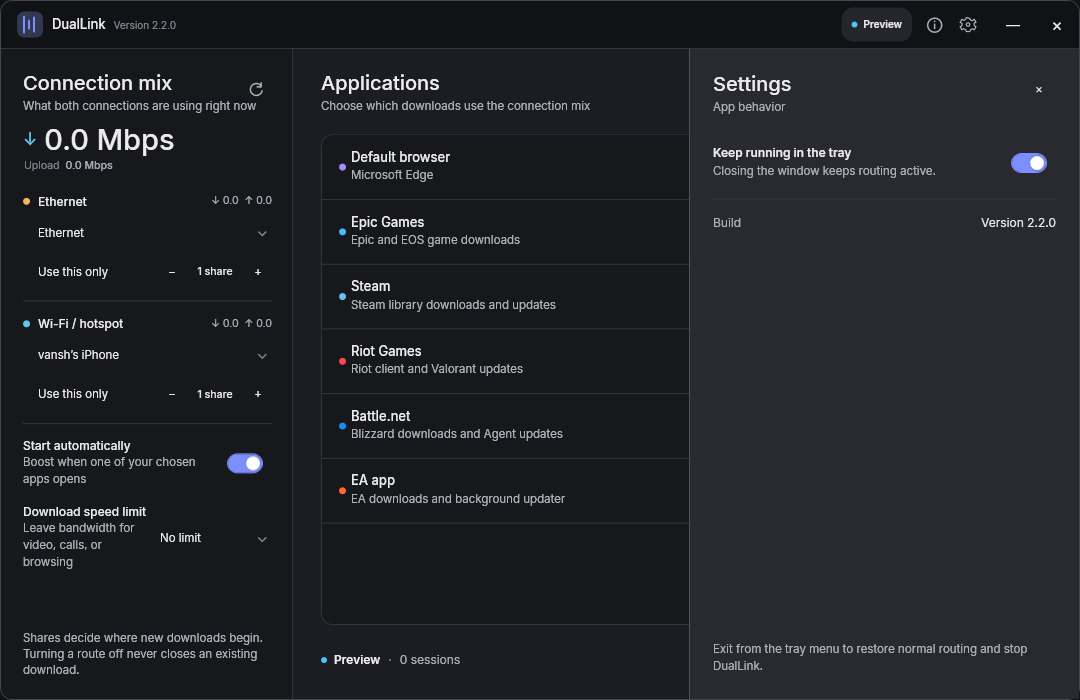
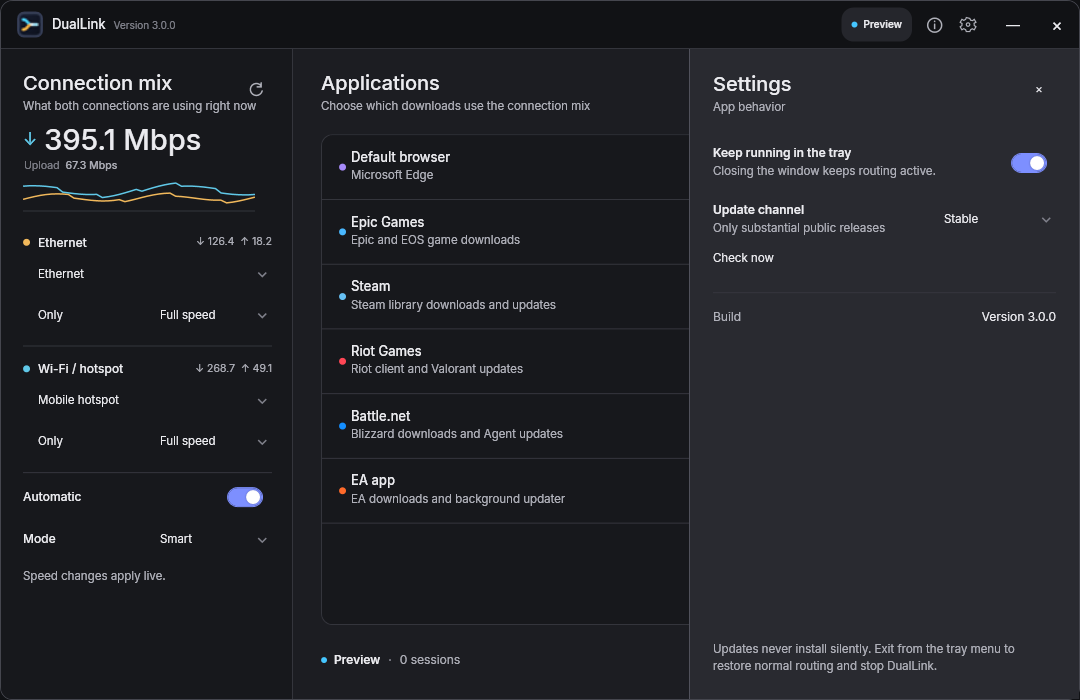
chore: prepare DualLink 3.0 stable release

diff --git a/src/DualLink/MainWindow.xaml.cs b/src/DualLink/MainWindow.xaml.cs
@@ -716,7 +716,13 @@ public partial class MainWindow : Window, INotifyPropertyChanged
             changed.RouteControlMbps = LinkInfo.FullSpeedControlMbps;
             Log("Keep at least one connection on");
         }
-        ApplyRouteMix();
+        var balanced = RoutingModeOptions.First(x => x.Mode == RoutingMode.Balanced);
+        if (SelectedRoutingModeOption?.Mode != RoutingMode.Balanced)
+        {
+            SelectedRoutingModeOption = balanced;
+            Log("Balanced mode selected for manual route speeds");
+        }
+        else ApplyRouteMix();
     }
     private async void ProfileSelection_Click(object sender, RoutedEventArgs e)
     {

diff --git a/README.md b/README.md
@@ -5,7 +5,7 @@
 
 DualLink applies two independent internet links to new TCP connections made by selected Windows applications. It is designed for launchers and browsers that open several parallel download connections.
 
-![DualLink 2.3 application overview](docs/screenshots/duallink-2.3-dev.png)
+![DualLink 3.0 application overview](docs/screenshots/duallink-3.0.png)
 
 <p align="center">
   <img src="docs/images/icon-preview.png" width="128" alt="DualLink confluence app icon: two network paths merging into one" />
@@ -24,7 +24,7 @@ DualLink leaves normal Windows routing alone for every application you have not 
 1. Connect Ethernet and Wi-Fi/hotspot.
 2. Pick each connection. Wi-Fi choices show the connected network or hotspot name.
 3. Choose the applications and select **Enable boost**.
-4. Choose an independent Mbps limit for each route, or select **Full speed**. Changes throttle that route's existing download and upload traffic immediately; Off leaves its current connections draining but sends no new ones there. Select **Only** to move all new connections to that route.
+4. Choose an independent Mbps limit for each route, or select **Full speed**. A manual choice switches the mode to **Balanced** so the selected capacities guide new connections. Changes throttle that route's existing download and upload traffic immediately; Off leaves its current connections draining but sends no new ones there. Select **Only** to move all new connections to that route.
 5. Close the window to keep DualLink in the notification area. Hover for live combined speed, connection quality, and session context, or right-click for the compact DualLink status menu. Use **Exit and restore** to return the filter to its previous configuration.
 
 The Details drawer explains filter readiness, route quality, and whether active sessions have actually used both connections. **This boost** shows the real download, upload, and successful-connection contribution from Ethernet and Wi-Fi; these local counters reset whenever a new boost begins. **Check connections** verifies each selected route, DNS, route independence, and application filtering in plain language. Technical activity remains hidden until requested. The default browser is detected from Windows settings and added automatically. **Add application** offers visible running apps first, with executable browsing as a fallback. Custom applications are matched by their full executable path so another program with the same filename is not selected accidentally; adding the same executable again selects its existing row, and custom rows can be removed directly. Changing the chosen applications during a boost reloads only the local filter, so established proxied downloads are not closed.
@@ -35,6 +35,10 @@ While boosting, route speeds, the one-minute sparkline, and tray speed use byte 
 <summary>Settings and diagnostics stay out of the way until requested</summary>
 
 ![DualLink settings inspector](docs/images/settings.png)
+
+![DualLink connection details](docs/screenshots/duallink-3.0-details.png)
+
+![DualLink running application picker](docs/screenshots/duallink-3.0-add-application.png)
 
 </details>
 
@@ -52,13 +56,13 @@ Run `build.ps1`. The script restores from NuGet.org, runs the integration test, 
 
 Development checkpoints use annotated `-dev.N` tags without GitHub Releases. Public Releases are reserved for substantial stable milestones that pass the complete [version and release policy](docs/RELEASE-POLICY.md).
 
-Development of the next substantial milestone is tracked in the [DualLink 3.0 roadmap](docs/ROADMAP_3.0.md).
+The completed milestone and its intentional scope are recorded in the [DualLink 3.0 roadmap](docs/ROADMAP_3.0.md).
 
 End users do not need .NET, ProxiFyre, Windows Packet Filter, or the Visual C++ runtime installed beforehand; the offline setup contains them.
 
 ## Safety model
 
-DualLink only filters processes the user selects. Its local proxy listens on loopback, uses fresh random credentials for each run, and is not exposed to the LAN. Disarming or exiting restores the previous ProxiFyre configuration. A small independent watchdog also restores the configuration if the UI process exits unexpectedly. Recovery paths are constrained to DualLink's own state and the expected ProxiFyre config. Adapter changes are detected automatically; an available route continues carrying new sessions while another reconnects. A weight of zero affects new connections only.
+DualLink only filters processes the user selects. Its local proxy listens on loopback, uses fresh random credentials for each run, and is not exposed to the LAN. Disarming or exiting restores the previous ProxiFyre configuration. A small independent watchdog also restores the configuration if the UI process exits unexpectedly. Recovery paths are constrained to DualLink's own state and the expected ProxiFyre config. Adapter changes are detected automatically; an available route continues carrying new sessions while another reconnects. Turning a route off affects new connections immediately while established ones finish normally.
 
 ## Limits
 

diff --git a/docs/ROADMAP_3.0.md b/docs/ROADMAP_3.0.md
@@ -10,16 +10,16 @@ DualLink 3.0 focuses on making combined-routing behavior understandable and depe
 4. **Lower idle cost** — keep background polling, allocations, helper processes, and retained transfer state bounded while preserving automatic behavior.
 5. **Approachable controls** — keep primary actions understandable without exposing IP addresses or technical logs unless requested.
 
-The development checkpoints established app-scoped route accounting, an on-demand running-application picker, an understandable per-boost contribution summary, live application-target updates, accurate draining-route evidence under concurrent load, and immediate per-route speed control. Stable preparation now concentrates on the release audit and repeated recovery verification.
+The completed milestone includes app-scoped route accounting, an on-demand running-application picker, an understandable per-boost contribution summary, live application-target updates, accurate draining-route evidence under concurrent load, and immediate independent per-route speed control.
 
 ## Intentional exclusions
 
 - No per-application routing-setting profiles. Applications remain simple selectable targets.
-- No separate upload limiter. One aggregate bandwidth limit covers upload and download together.
+- No separate upload limiter and no combined limiter. Each route has one speed control covering its upload and download traffic together.
 - No settings import or export.
 - No automatic update download or installation.
 - No GitHub Release for development tags.
 
-## Stable 3.0 gate
+## Stable 3.0 result
 
-The normal repository release policy remains authoritative. In addition, 3.0 must prove that app-scoped traffic accounting is correct across both routes, counters remain bounded across repeated sessions, displayed evidence matches actual proxy activity, live target changes preserve established transfers, and recovery does not misreport unrelated destination failures as link failures.
+The stable milestone proves that app-scoped traffic accounting is correct across both routes, counters remain bounded across repeated sessions, displayed evidence matches actual proxy activity, live target changes preserve established transfers, higher route limits receive more new connections, active limits change without interruption, and unrelated destination failures are not misreported as link failures.

diff --git a/docs/RELEASE_NOTES_3.0.0.md b/docs/RELEASE_NOTES_3.0.0.md
@@ -1,0 +1,24 @@
+# DualLink 3.0.0
+
+DualLink 3 makes two-link routing easier to control and easier to trust. It shows traffic carried by selected applications, records what each connection contributed during the current boost, and gives Ethernet and Wi-Fi their own live speed choices.
+
+## Highlights
+
+- Set Ethernet and Wi-Fi independently from **Off** through exact Mbps choices to **Full speed**.
+- Choosing a manual route speed switches to Balanced mode automatically so the selected capacities guide new connections immediately.
+- Change either route while a download is active; the new limit takes effect without restarting DualLink, the launcher, the proxy, or the filter.
+- Give Wi-Fi more capacity than Ethernet, or the reverse. Balanced mode assigns more new connections to the route with the higher selected speed.
+- Turn a route off without breaking its existing transfers. They drain normally and remain visible in the current-boost evidence.
+- See selected-app download, upload, successful connections, and real Ethernet/Wi-Fi contribution instead of unrelated adapter traffic.
+- Add a visible running application and change selected targets without interrupting established downloads.
+- Use automatic route recovery, secure loopback-only proxy authentication, bounded connection cleanup, and the independent restoration watchdog.
+
+## Important limits
+
+DualLink distributes separate TCP connections. It cannot split one TCP connection across two links without a remote aggregation server. Launchers and browsers benefit when they open multiple connections; live game sessions are intentionally not a target.
+
+The Windows Packet Filter driver bundled by the installer is licensed for personal, educational, and nonprofit use. Commercial use requires a separate license. Release executables are currently unsigned; verify `SHA256SUMS.txt` before running the installer.
+
+## Install
+
+Download `DualLink-3.0.0-Setup-x64.exe`. The offline installer includes all required runtime and routing components. Administrator approval is required because setup installs a local service and network driver. Closing DualLink keeps it in the notification area by default; **Exit and restore** returns the original routing configuration.

diff --git a/CHANGELOG.md b/CHANGELOG.md
@@ -2,6 +2,17 @@
 
 All notable DualLink changes are recorded here. Versions follow semantic versioning.
 
+## 3.0.0 - 2026-08-30
+
+- Added accurate selected-application download, upload, connection, and per-route contribution evidence for each boost.
+- Added independent live Mbps controls for Ethernet and Wi-Fi, including Off and Full speed; established transfers react without restarting the app, proxy, or filter.
+- Made a manual route-speed choice switch to Balanced mode automatically so the user's selected capacities take control immediately.
+- Made Balanced routing favor the route with the higher selected speed and kept Smart routing aware of each route's capacity, quality, and active load.
+- Added a running-application picker and live target changes that preserve established transfers.
+- Kept turned-off routes visible while their existing connections drain, with byte-accurate accounting until completion.
+- Strengthened route/filter recovery, secure local proxy authentication, full-path application matching, watchdog validation, bounded connection cleanup, and automatic adapter refresh.
+- Simplified the main interface, kept diagnostics on demand, and improved notification-area status and controls.
+
 ## 3.0.0-dev.5 - 2026-08-30
 
 - Turning a link off now keeps its existing sessions visible as draining, continues byte-accurate accounting until they finish, and still prevents new connections from using that link.

diff --git a/docs/LEGAL-REVIEW.md b/docs/LEGAL-REVIEW.md
@@ -1,6 +1,6 @@
 # Release compliance review
 
-Reviewed: 2026-08-28
+Reviewed: 2026-08-30
 
 This checklist documents the release posture; it is not legal advice.
 
